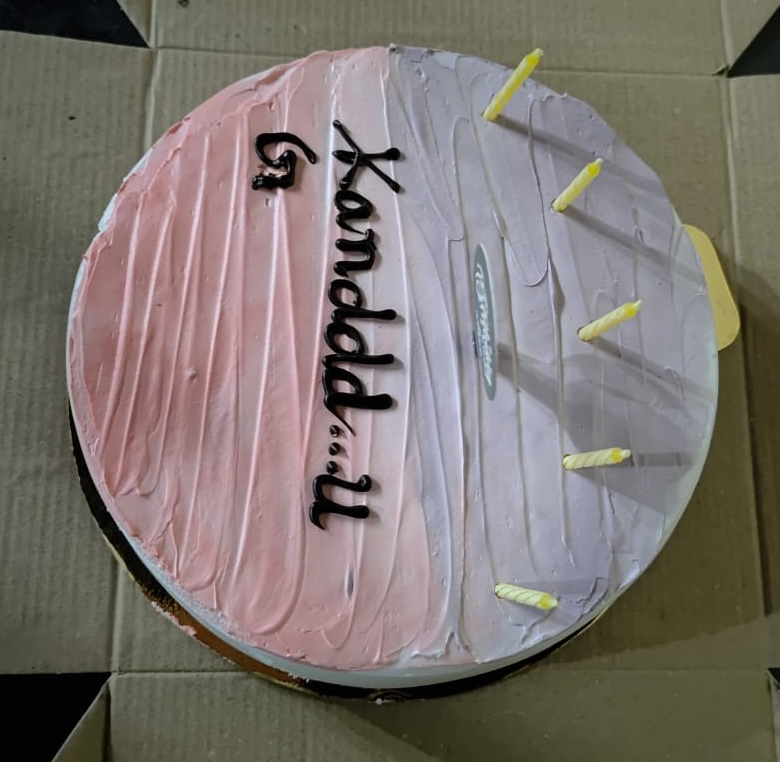
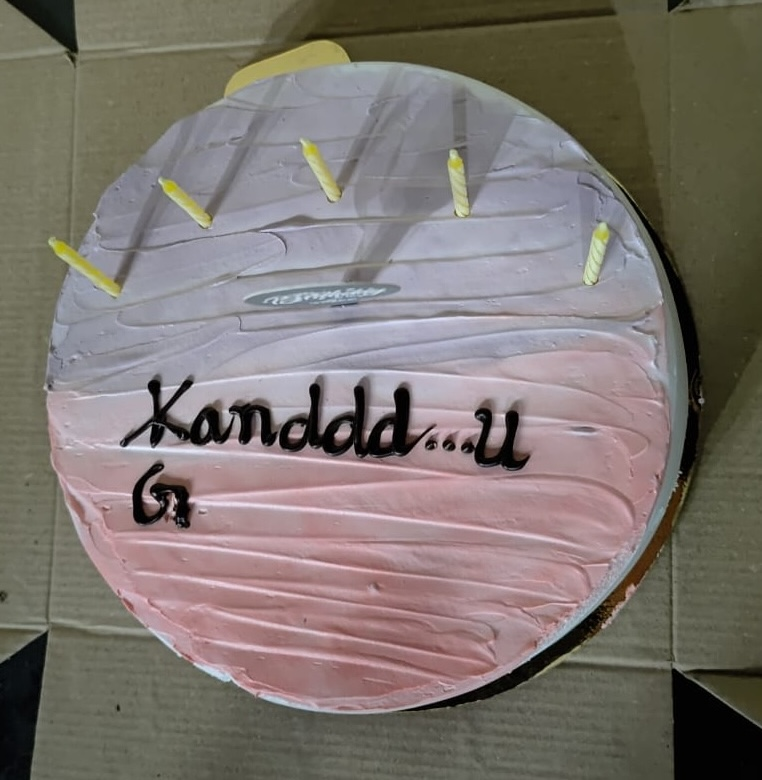
Add files via upload

diff --git a/gallery.html b/gallery.html
@@ -360,7 +360,7 @@
 
             <article class="photo-entry">
                 <div class="image-wrapper">
-                    <img src="asleep.jpeg" alt="Sleeping on the ground">
+                    <img src="noT.png" alt="Sleeping on the ground">
                 </div>
                 <div class="entry-content">
                     <span class="meta-tag">Ground</span>
@@ -370,6 +370,37 @@
                     </p>
                 </div>
             </article>
+
+
+            <article class="photo-entry">
+                <div class="image-wrapper">
+                    <img src="a4.png" alt="Sleeping on the ground">
+                </div>
+                <div class="entry-content">
+                    <span class="meta-tag">Campus</span>
+                    <h2 class="photo-title">A4 Building</h2>
+                    <p class="photo-caption">
+                        This is A4. The mountain in front is Griffon Peak. We made Maggi there with local children. It’s a huge mountain—you can see it from almost everywhere in IIT, even from Kamand, always appearing in a different angle.
+
+                        Locals burn the unwanted grass to clear the slopes and for oil extraction. When the fire spreads, the whole mountain glows. The view from A4 is soothing.                    </p>
+                </div>
+            </article>
+
+
+            <article class="photo-entry">
+                <div class="image-wrapper">
+                    <img src="divyaa.png" alt="Sleeping on the ground">
+                </div>
+                <div class="entry-content">
+                    <span class="meta-tag">Food</span>
+                    <h2 class="photo-title">Breads cookedy by Divya</h2>
+                    <p class="photo-caption">
+                        These are the breads cooked by Divya. She made three per person(I did not know). I thought two would be enough for one. They were so tasty I ate three. Something happened that same night(I had to go there)—otherwise I would’ve slipped the fourth one too without anyone noticing, though I never thanked her or appreciated her for that beautiful effort.                    </p>
+                </div>
+            </article>
+
+
+
 
         </div> <footer>
             © 2026 Manish Kanda.
